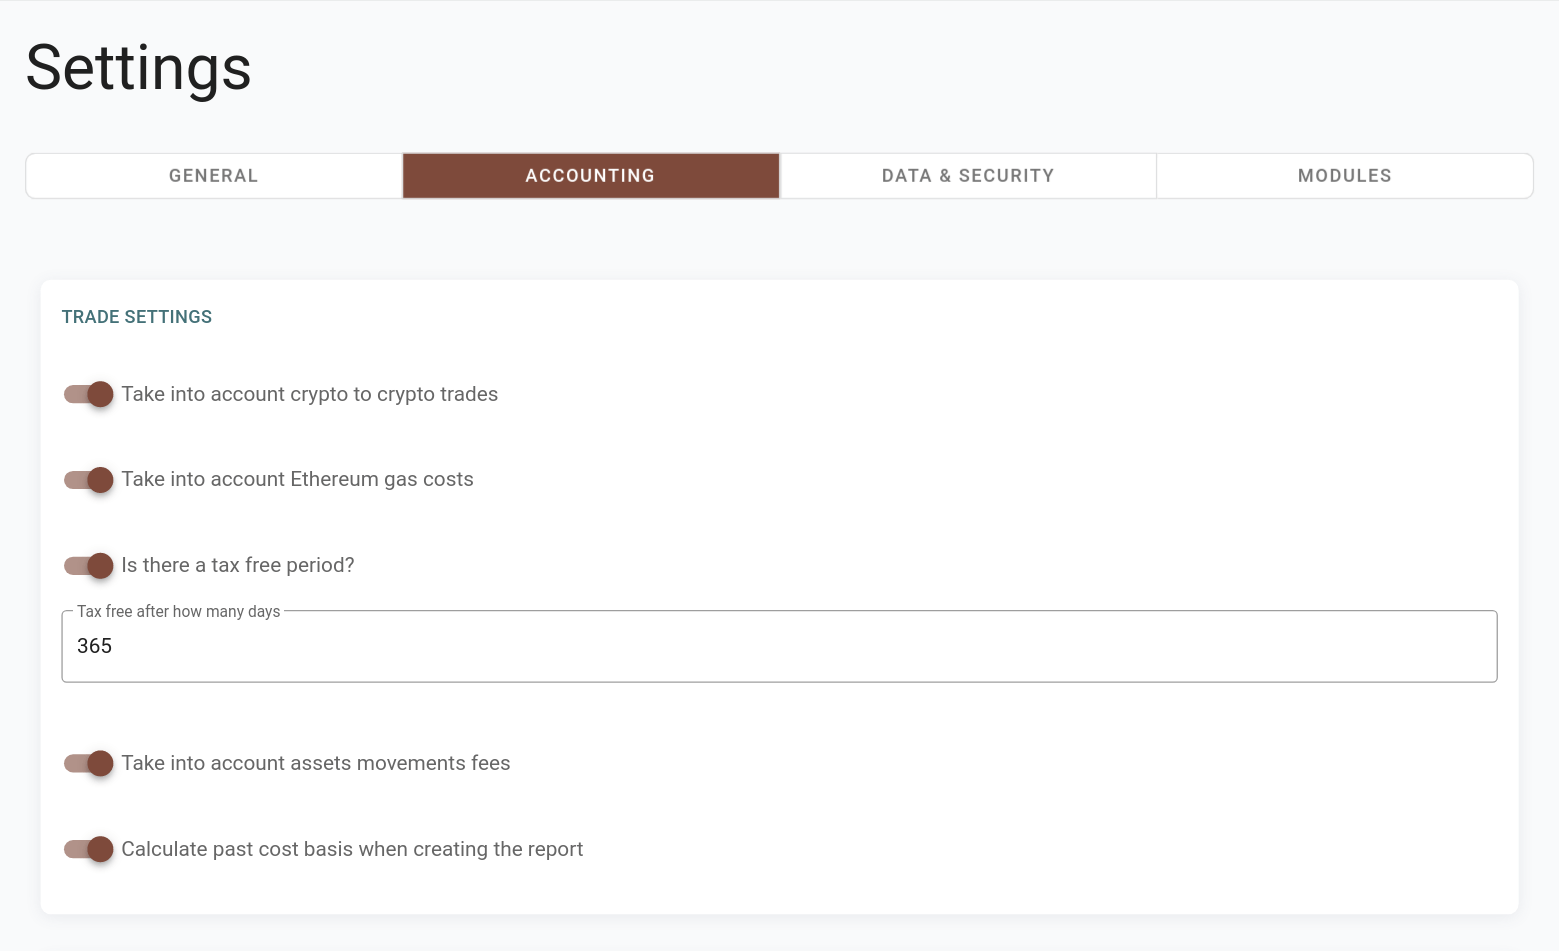
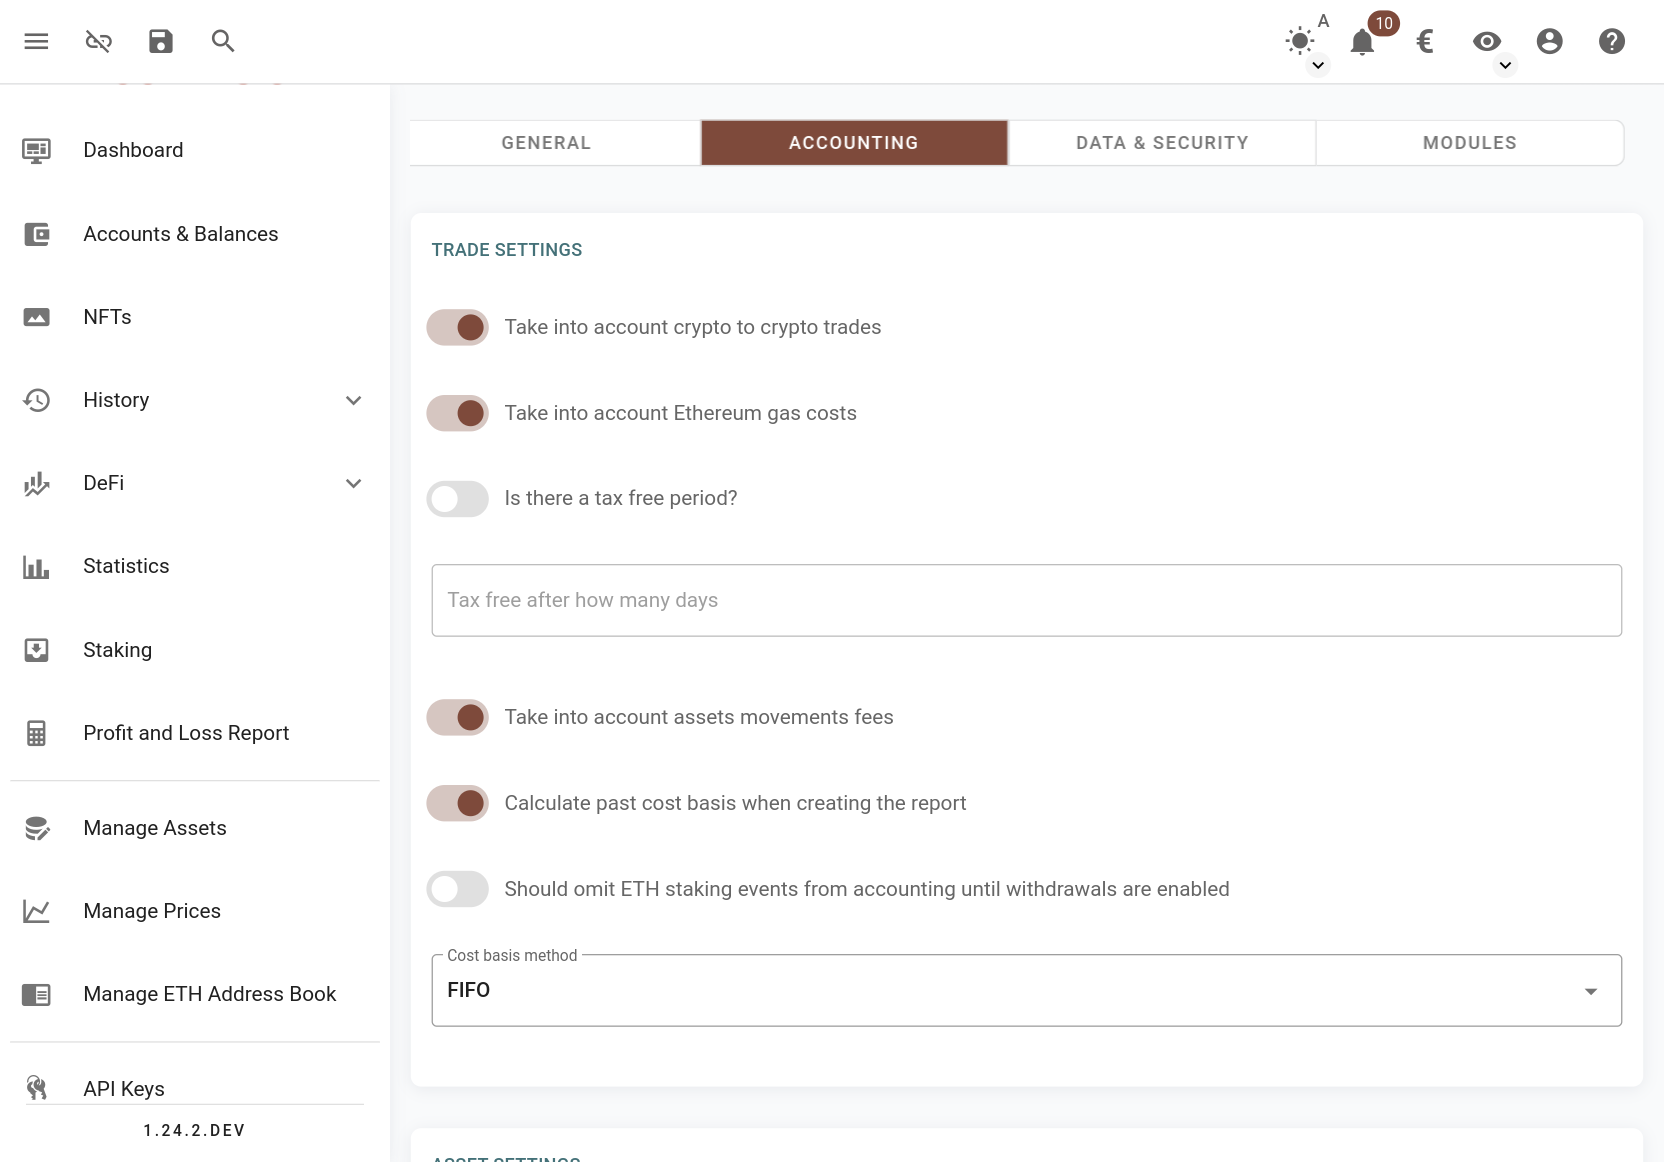
Add information about cost basis method and ETH/ETH2

diff --git a/docs/usage_guide.rst b/docs/usage_guide.rst
@@ -157,6 +157,11 @@ BTC Derivation gap limit
 
 This is the derivation gap limit that will be used when trying to derive addresses from a bitcoin xpub. For more information check `here <https://blog.blockonomics.co/bitcoin-what-is-this-gap-limit-4f098e52d7e1>`__.
 
+Treat staked ETH as ETH
+^^^^^^^^^^^^^^^^^^^^^^^^^^^
+
+If this setting is set then ETH2 (staked ETH) will appear as ETH in the UI and all the tables and charts will use ETH combining the values of both ETH and ETH2.
+
 
 Amount Settings
 -----------------
@@ -342,6 +347,19 @@ Calculate past cost basis
 When creating a profit/loss report we also need to figure out where and when all of the assets that the user is using were acquired from. Which is why we also go through all past events, even before the start of the period.
 
 This behavior can be disabled by turning this setting off.
+
+Omit ETH staking events
+^^^^^^^^^^^^^^^^^^^^^^^^^^^
+
+Specify whether ETH events related to staking should be taken into account before withdrawals are enabled after the ETH2 merge.
+
+Cost basis method
+^^^^^^^^^^^^^^^^^^^^^
+
+The method that should be used during the profit and loss execution to calculate cost basis. The methods available at the moment are:
+
+- FIFO: `First In First Out`
+- LIFO: `Last In First Out``
 
 Asset settings
 --------------
